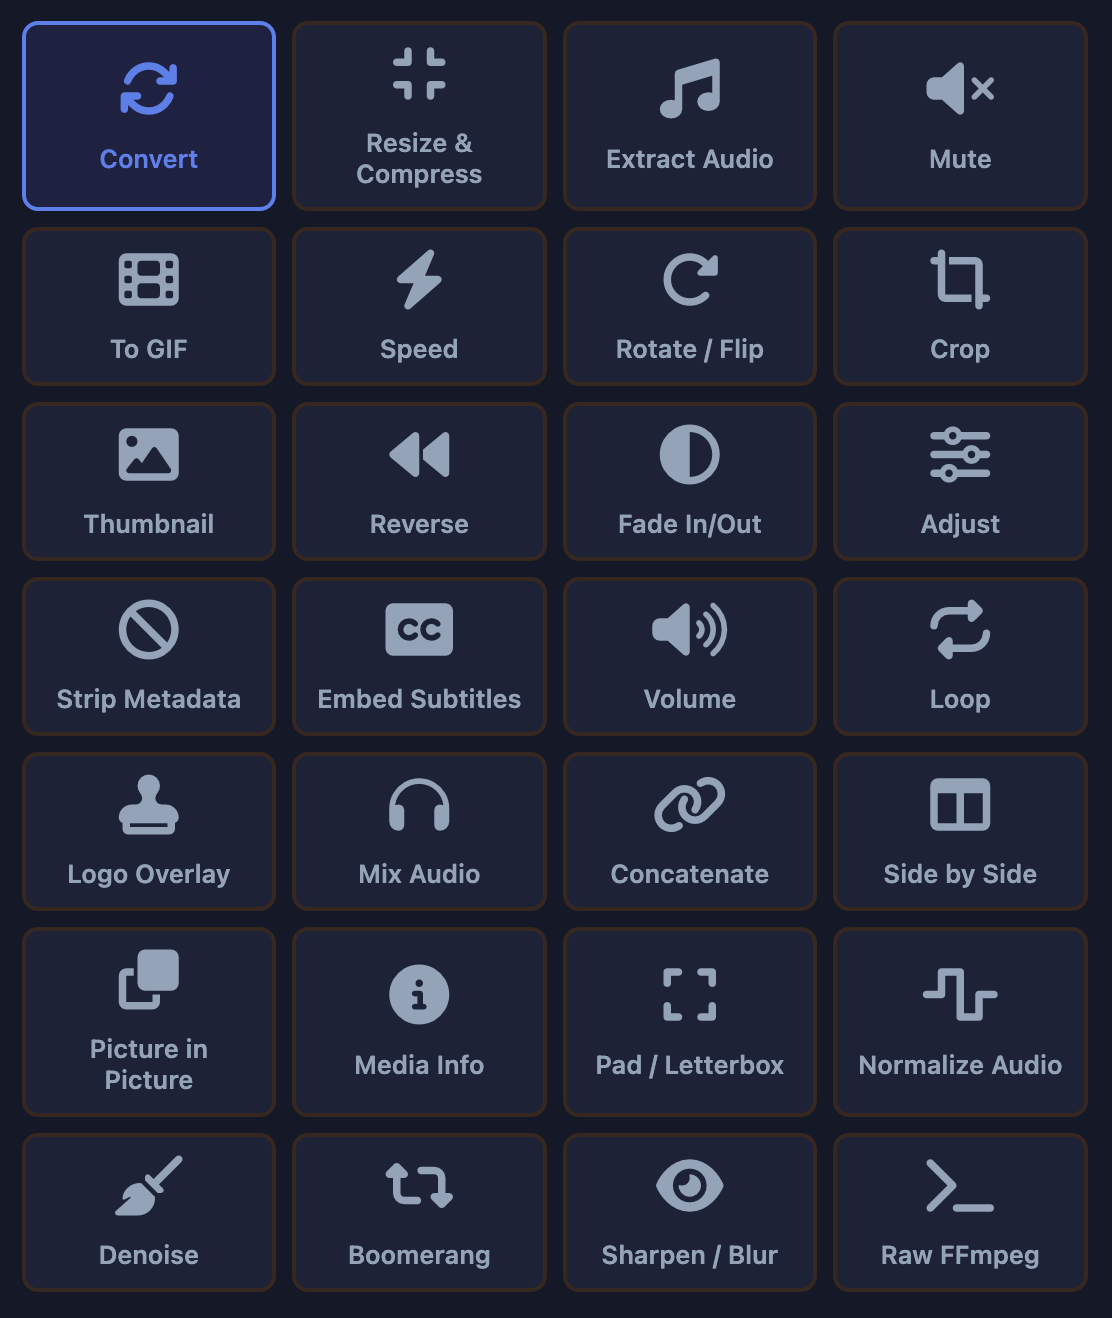
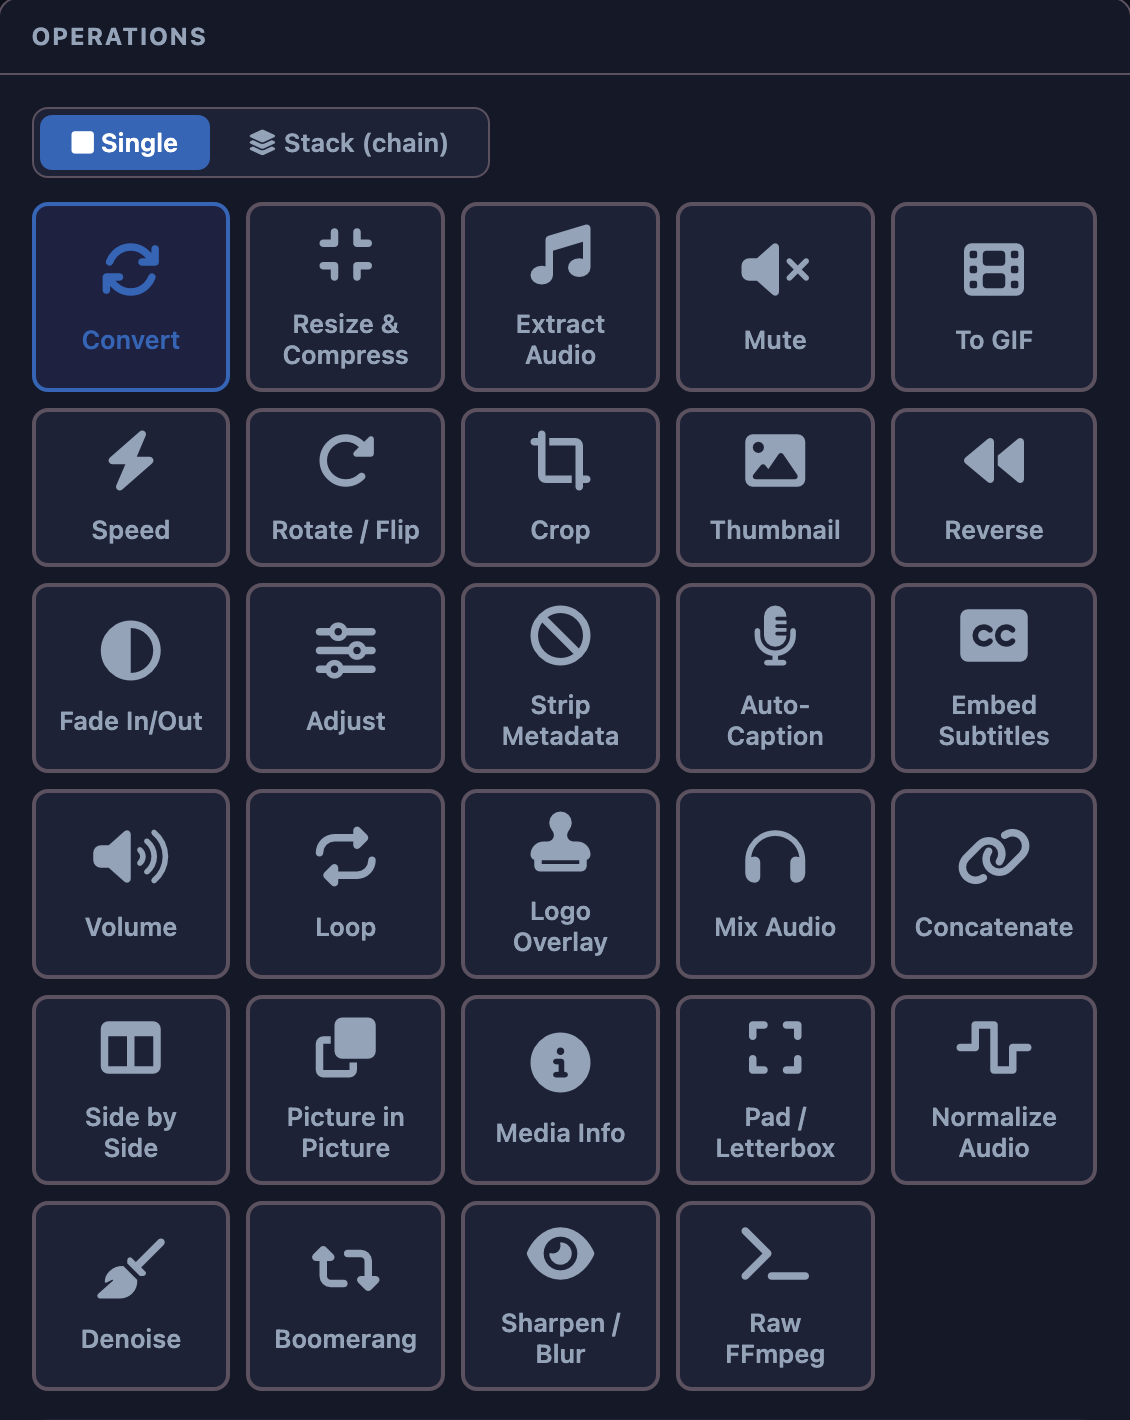
ac

Changed region(s): [[0.0, 0.0, 0.9784, 0.9954], [0.4586, 0.0, 0.4892, 0.0311], [0.214, 0.0, 0.2446, 0.0311]]

diff --git a/docs/index.html b/docs/index.html
@@ -98,7 +98,7 @@
     .tl-labels { display: flex; justify-content: space-between; font-size: 0.72rem; color: var(--muted); }
 
     /* ── Op picker ── */
-    .ops-grid { display: grid; grid-template-columns: repeat(4, 1fr); gap: 8px; margin-bottom: 14px; }
+    .ops-grid { display: grid; grid-template-columns: repeat(5, 1fr); gap: 8px; margin-bottom: 14px; }
     .op-tile { background: var(--surface2); border: 2px solid var(--border); border-radius: 8px; padding: 9px 10px; cursor: pointer; text-align: center; font-size: 0.8rem; font-weight: 600; color: var(--muted); transition: all .15s; }
     .op-tile:hover { border-color: var(--accent); color: var(--accent); }
     .op-tile.active { border-color: var(--accent); background: rgba(99,102,241,.12); color: var(--accent); }
@@ -247,7 +247,7 @@
 
       .trim-row { flex-direction: column; gap: 6px; }
 
-      .ops-grid { grid-template-columns: repeat(3, 1fr); gap: 6px; }
+      .ops-grid { grid-template-columns: repeat(4, 1fr); gap: 6px; }
       .op-tile { padding: 8px 6px; font-size: 0.74rem; }
 
       .form-row { gap: 6px; }
@@ -274,7 +274,7 @@
     }
 
     @media (max-width: 380px) {
-      .ops-grid { grid-template-columns: repeat(3, 1fr); }
+      .ops-grid { grid-template-columns: repeat(4, 1fr); }
     }
 
     /* ── Raw FFmpeg example library ── */